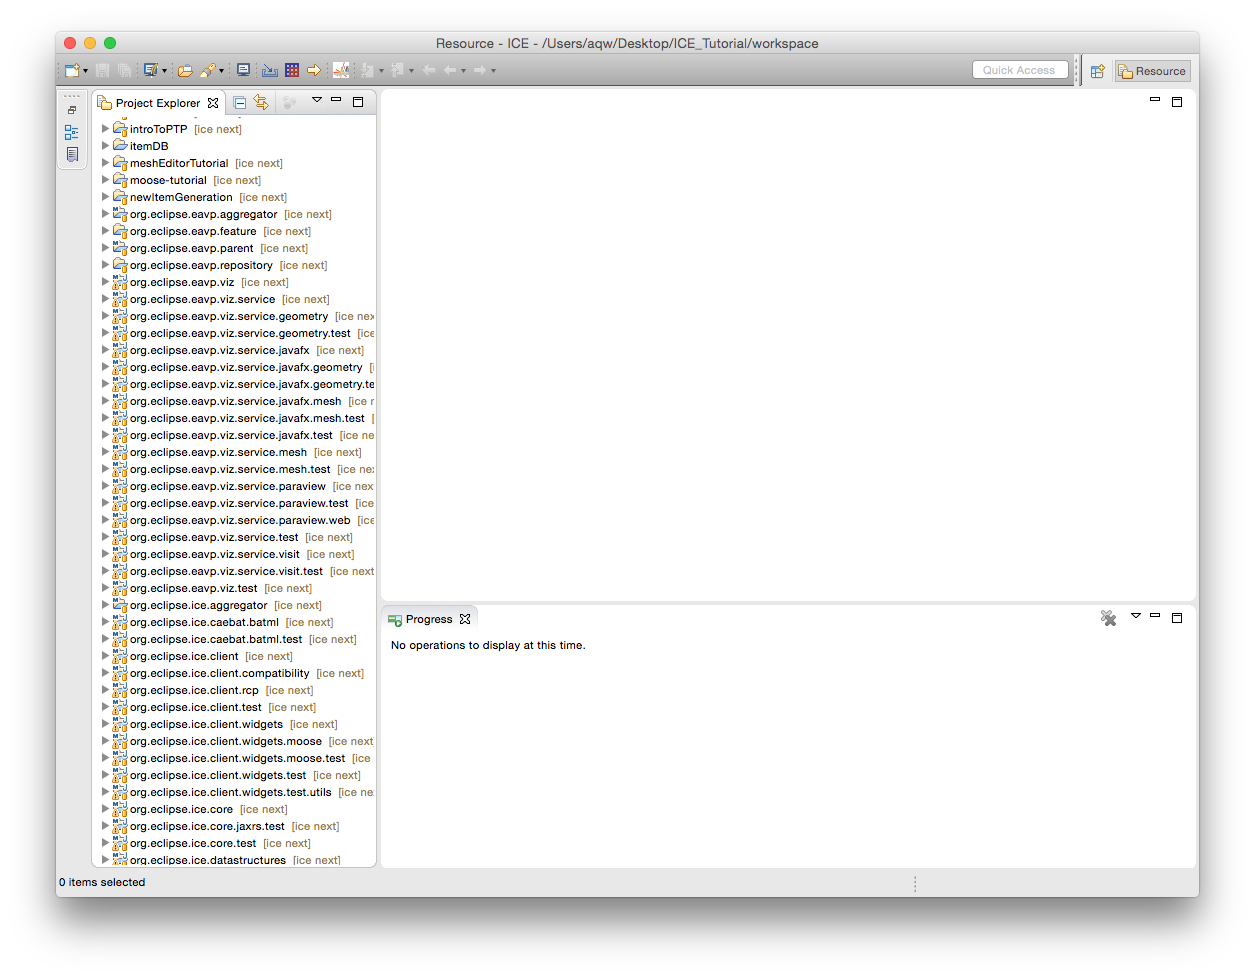
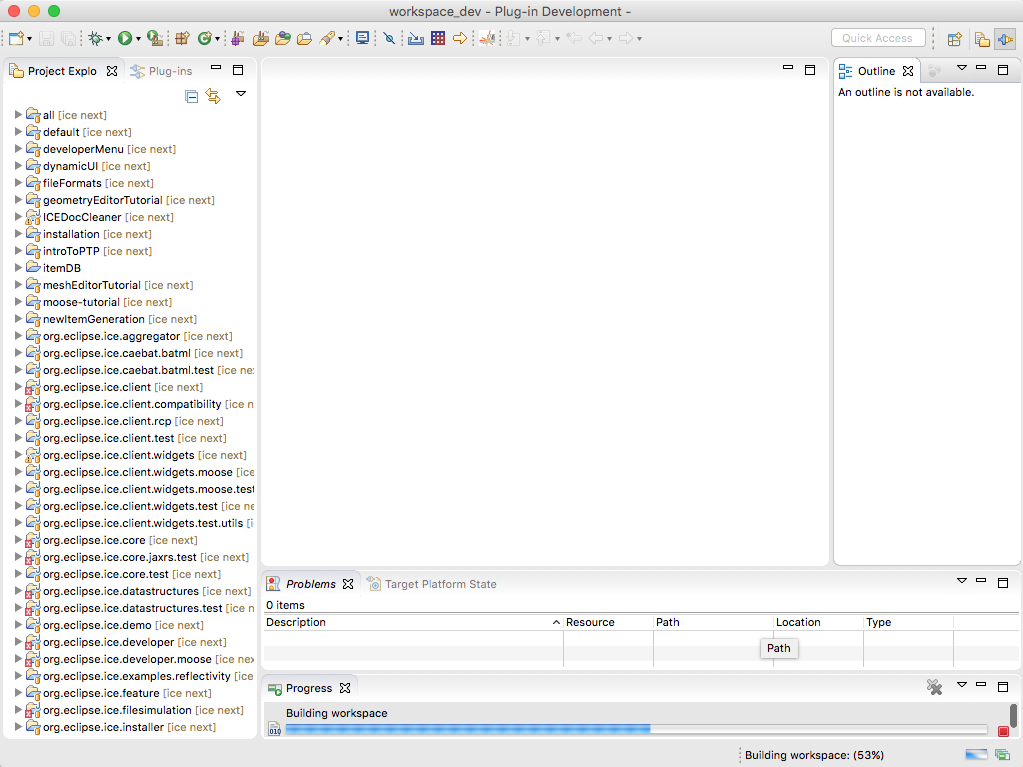
Updated installation docs

diff --git a/docs/installation/src/content.tex b/docs/installation/src/content.tex
@@ -1,43 +1,60 @@
+\section{Installation}
 You have been provided a USB stick with all you will need for this tutorial. On
-this drive is the following: ICE binaries for your OS, a clone of the ICE git
-repository, all tutorial documentation and slides for today, and
-data files for the tutorial. 
+this drive is the following: 
+\begin{itemize}
+\item An ICE application for your operating system
+\item A clone of the ICE git repository
+\item All tutorial documentation and slides for today
+\item Data files for the tutorial. 
+\end{itemize}
 
-\section*{ICE Installation}
-A number of files must first be copied from the
-USB stick to your local machine:
+\subsection{ICE Installation}
+A number of files must first be copied from the USB stick to your local machine. Please
+follow the steps below:
 \begin{enumerate}
 \item Choose a location that is easy to remember
 and copy the correct \texttt{ice\-product*.zip} file for your computer's 
 operation system (Linux, Mac OS X, or Windows).
 \item Unzip this file to obtain the 
 ICE application executable.
-\item Copy the git repository \texttt{repository.zip} file to your computer.
+\item Copy the git repository \texttt{ice-repository.zip} file to your computer.
 \item Unzip this file.
 \end{enumerate}
 
-\section*{Starting ICE}
+\subsection{Starting ICE for the first time}
 To start ICE, double-click on the application executable to open up ICE. When the workspace chooser
-dialog opens, select the default workspace. 
+dialog opens, select the default workspace by clicking on the \texttt{OK}
+button.
+You can enter your own directory for the workspace location, but please make sure that it is writable and readable by you, and you remember where it is.
 \begin{center} \includegraphics[width=\textwidth]{figures/workspace}
 \end{center}
-When ICE opens you should see something similar to the below image. 
+When ICE opens you should see an empty \texttt{Plug-in Development} perspective
+similar to the image below.
 \begin{center} \includegraphics[width=\textwidth]{figures/expectedICE}
 \end{center} 
 
-\section*{Setting up ICE}
-In order to develop an application dashboard, a development version of ICE
-must be setup. The first step in doing this is to load the ICE bundles into
+\subsection{Setting up ICE}
+In order to create a dashboard for your application, you will need to configure ICE to
+be able to develop ICE. This \textit{Software Development Kit (SDK) version} of
+ICE will contain all the components necessary to generate a new instance of ICE that will become your application's dashboard. 
+The first step in doing this is to load the ICE bundles into
 your workspace. We have provided a developer menu to assist in this process:
 
 \begin{enumerate}
 \item Select \texttt{Developer $\rightarrow$ ICE $\rightarrow$
-Import from local repository}
+Import Local Repository}
 \item Using the directory dialog, navigate to the git repository you copied
 from the USB drive.
 \item Select \texttt{Open}
+\item In the \texttt{Search results} list, select the checkbox next to the
+repository
+\item Select \texttt{Finish}
 \end{enumerate}
 
 This should import all the ICE bundles and you should have something
-like the image below.
+like the image below. \textit{Note: you may see errors on some of the projects,
+these can safely be ignored.}
 \begin{center} \includegraphics[width=\textwidth]{figures/cloned} \end{center}
+
+At this point, you are ready to begin developing a dashboard for your
+application!
